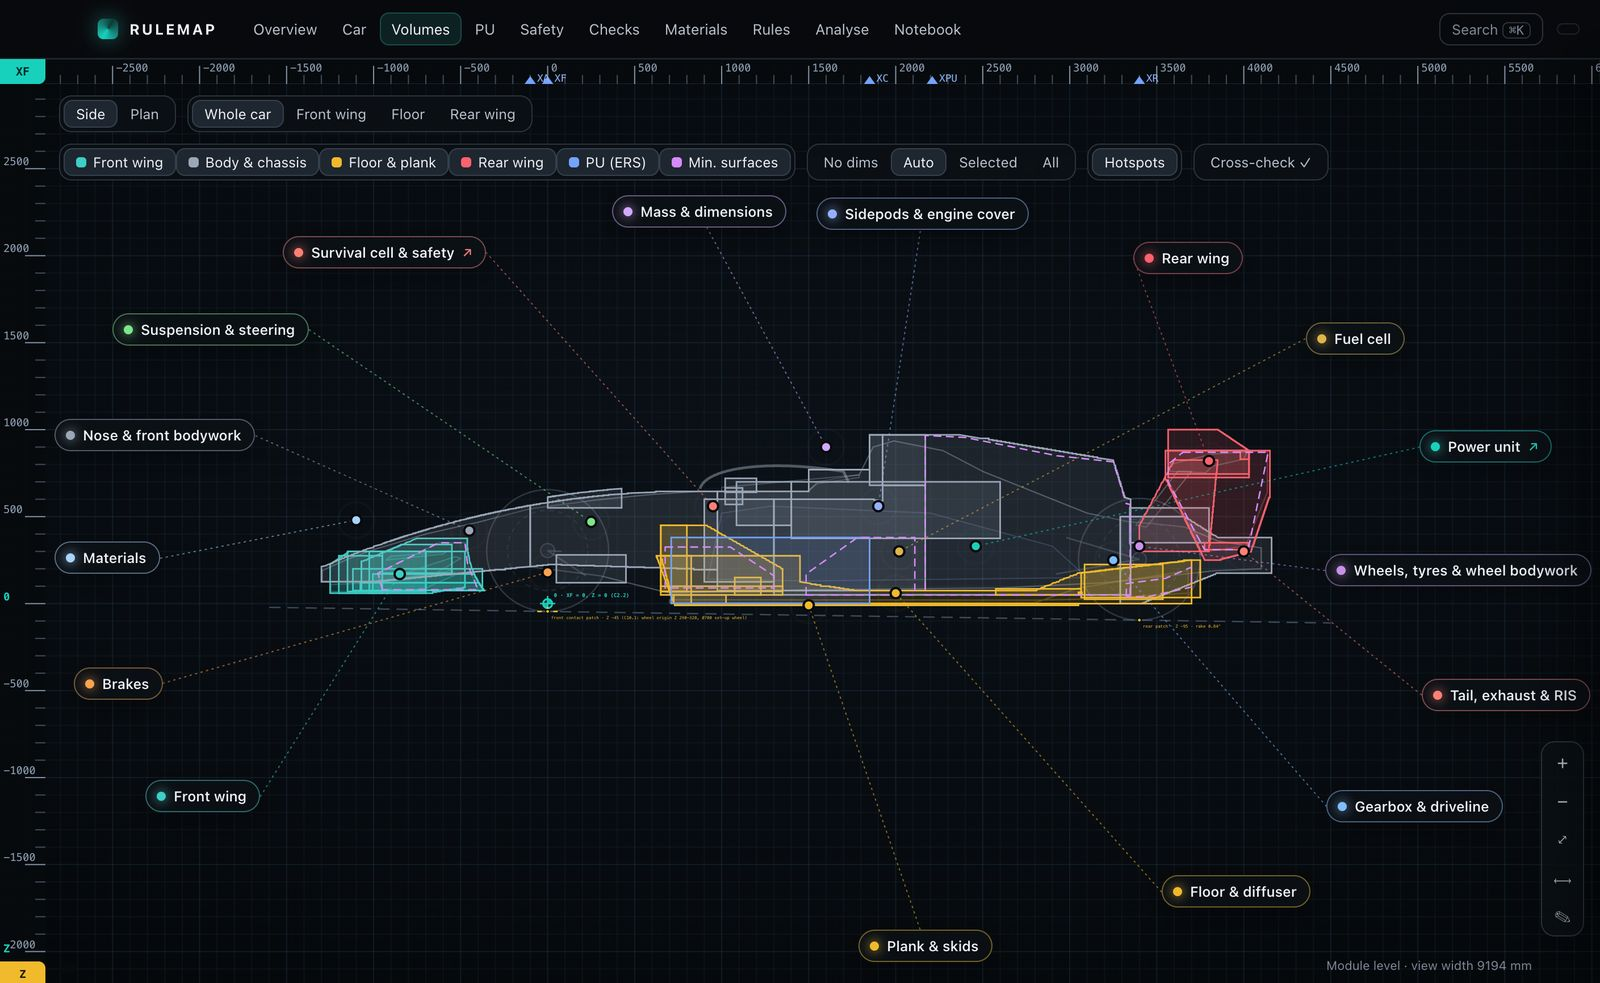
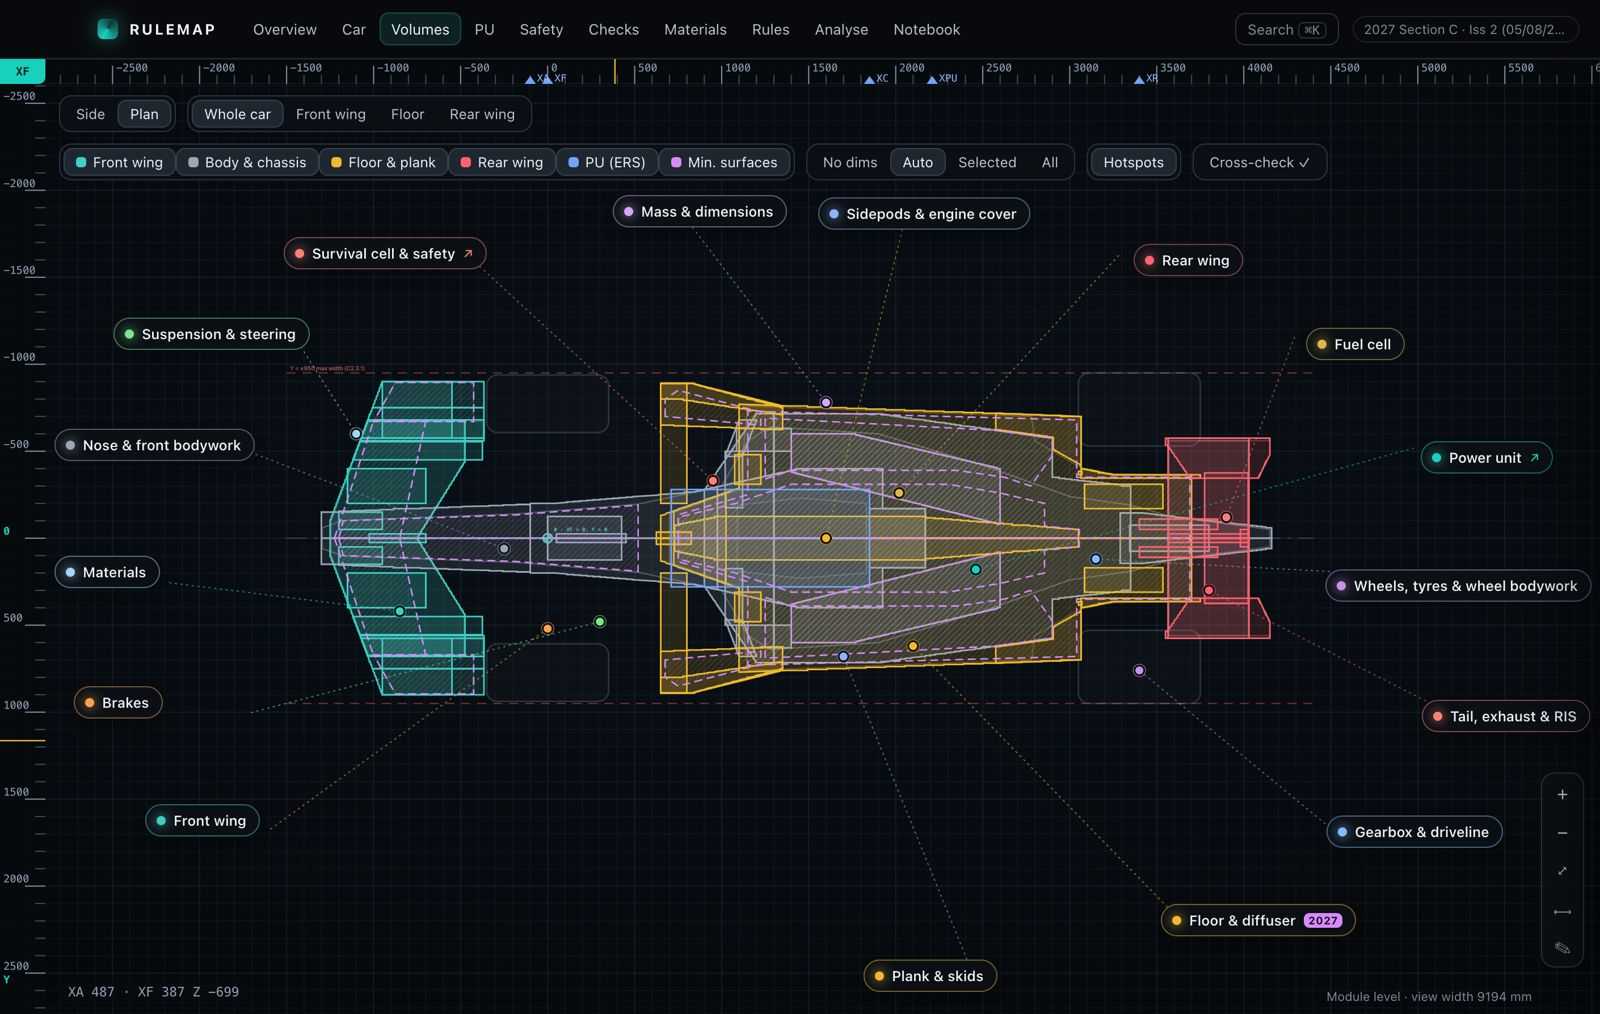
RULEMAP plan view, thesis validation wording, sketch captions

diff --git a/index.html b/index.html
@@ -184,7 +184,7 @@ section.block{padding-block:clamp(64px,9vw,128px);border-top:1px solid var(--lin
 .stage figure{position:absolute;inset:0;margin:0;display:grid;grid-template-rows:1fr auto;padding:20px;opacity:0;transition:opacity .45s;pointer-events:none}
 .stage figure.on{opacity:1}
 .stage figure img{width:100%;height:100%;object-fit:contain;min-height:0}
-.stage .pair{display:grid;grid-template-columns:1fr 1fr;gap:10px;min-height:0}
+.stage .pair{display:grid;grid-template-columns:1fr;grid-template-rows:1fr 1fr;gap:10px;min-height:0}
 .stage .pair img{object-fit:contain}
 
 /* compare */
@@ -812,10 +812,10 @@ td{padding:12px 12px 12px 0;border-bottom:1px solid var(--line);vertical-align:m
         </div>
         <div class="step" data-fig="6">
           <p class="k">Validation</p>
-          <h3>Torsion, and every rule load case</h3>
-          <p>Rotation along the car rises where the cockpit opening begins, because torsion needs closed box sections to carry shear. Rule load cases were checked with the Hill criterion:</p>
+          <h3>Every rule load case, then torsion</h3>
+          <p>To close the loop, every rule load case was applied to the final laminate and passed the Hill failure criterion:</p>
           <ul><li>Main hoop: 30 kN in x, y and z.</li><li>TSAC: 19 kN in x and y, 9.5 kN in z.</li><li>Front impact: 20 kN (250 kg at 8 g). Side impact: 7.5 kN perimeter shear.</li><li>Harness and anti-submarine loads.</li></ul>
-          <p>Where it flagged stress concentrations, at the cockpit edge and the anti-intrusion plate, the thesis recommends fillets for the next iteration.</p>
+          <p>A final torsional stiffness test then gave the result: 4,089 Nm/deg. Rotation along the car rises where the cockpit opening begins, because torsion needs closed box sections to carry shear. Fillets at the cockpit edge and the anti-intrusion plate are noted as refinements for the next iteration.</p>
           <figure class="inline"><img src="img/tfg_rot.jpg" alt="Rotation along the chassis length" loading="lazy"></figure>
         </div>
         <div class="step" data-fig="7">
@@ -871,7 +871,7 @@ td{padding:12px 12px 12px 0;border-bottom:1px solid var(--line);vertical-align:m
     <div class="sec-head">
       <p class="eyebrow">06 · Design &amp; vehicle concept · IFS-07 and IFS-08</p>
       <h2>Every car started on paper.</h2>
-      <p class="lede">My concept sketches for the IFS-07 and IFS-08: packaging, aero surfaces and structural details. The team later turned them into its merchandise, so the concept travelled with every member.</p>
+      <p class="lede">My concept sketches for the IFS-07 and IFS-08: packaging, aero surfaces and structural details. I made them to help team members get past the blocks they hit during the design phase.</p>
     </div>
     <div class="sketch-grid">
       <figure class="s-a"><img src="img/sk_ifs07_plan.jpg" alt="Hand sketch of the IFS-07 in top and side view with annotations" loading="lazy"><figcaption class="cap">IFS-07 concept, top and side views</figcaption></figure>
@@ -879,11 +879,11 @@ td{padding:12px 12px 12px 0;border-bottom:1px solid var(--line);vertical-align:m
       <figure class="s-c"><img src="img/sk_aero.jpg" alt="Sketch of aerodynamic concept with sidepods and wings" loading="lazy"><figcaption class="cap">Aerodynamic packaging</figcaption></figure>
       <figure class="s-d"><img src="img/sk_venturi.jpg" alt="Sketch of a floor with venturi channel" loading="lazy"><figcaption class="cap">Floor and venturi</figcaption></figure>
       <figure class="s-e"><img src="img/sk_fwing.jpg" alt="Sketch of a front wing with sections and endplates" loading="lazy"><figcaption class="cap">Front wing sections</figcaption></figure>
-      <figure class="s-f"><img src="img/sk_bracket.jpg" alt="Sketch of a carbon fibre mounting bracket" loading="lazy"><figcaption class="cap">Carbon mounting points</figcaption></figure>
+      <figure class="s-f"><img src="img/sk_bracket.jpg" alt="Sketch of a powertrain support bracket" loading="lazy"><figcaption class="cap">Powertrain support brackets</figcaption></figure>
       <figure class="s-d"><img src="img/sk_struct.jpg" alt="Sketch of structural members and mounting" loading="lazy"><figcaption class="cap">Structural member layout</figcaption></figure>
       <figure class="s-e"><img src="img/sk_mounts.jpg" alt="Sketch of battery container mounts" loading="lazy"><figcaption class="cap">Mounting brackets and lateral forces</figcaption></figure>
       <figure class="s-f"><img src="img/sk_sidepod.jpg" alt="Sketch of sidepod and suspension detail" loading="lazy"><figcaption class="cap">Aero detail</figcaption></figure>
-      <figure class="s-b"><img src="img/sk_p0.jpg" alt="Sketches of front wing endplates and flaps with an insert pull-out hand calculation" loading="lazy"><figcaption class="cap">Front wing elements and an insert pull-out hand calculation</figcaption></figure>
+      <figure class="s-b"><img src="img/sk_p0.jpg" alt="Sketches of front wing endplates and flaps" loading="lazy"><figcaption class="cap">Front wing elements</figcaption></figure>
       <figure class="s-c"><img src="img/sk_p1.jpg" alt="Rule-of-mixtures equations and triangular composite bracket sketches" loading="lazy"><figcaption class="cap">Rule of mixtures and composite brackets</figcaption></figure>
       <figure class="s-b"><img src="img/sk_p2.jpg" alt="Perspective sketch of a sidepod and rear wheel" loading="lazy"><figcaption class="cap">Sidepod and wheel in perspective</figcaption></figure>
       <figure class="s-c"><img src="img/sk_p4.jpg" alt="Sketches of chassis triangulation and a suspension bracket" loading="lazy"><figcaption class="cap">Chassis triangulation and brackets</figcaption></figure>
@@ -974,12 +974,6 @@ td{padding:12px 12px 12px 0;border-bottom:1px solid var(--line);vertical-align:m
           <figure><img src="img/rm_regs.jpg" alt="RULEMAP: Rules view"><figcaption class="cap">Rules: all articles in a searchable list, filtered to mechanical clauses, with what changed in this issue.</figcaption></figure>
           <figure><img src="img/rm_analyse.jpg" alt="RULEMAP: Analyse view"><figcaption class="cap">Analyse: import a new issue or paste a clause or technical directive. RULEMAP diffs it against the active dataset and lists the hotspots and calculators to re-check.</figcaption></figure>
         </div>
-      <dl class="spec">
-        <div><dt>Built with</dt><dd>JavaScript and Electron for the app; Python with PyMuPDF to extract the regulation text letter by letter, remove struck-out wording and keep the change marks</dd></div>
-        <div><dt>Calculators</dt><dd>Flex tests, the C3.18.5 floor envelope, the 400 ms adjuster, mass distribution, plank wear, fuel energy flow, ERS, PU mass and CoG, impact energy and static safety tests</dd></div>
-        <div><dt>Next</dt><dd>Feeds the aeroelastic study of the floor and front wing, and its effect on lap time</dd></div>
-        <div><dt>Code</dt><dd>Private GitHub repository · link coming soon</dd></div>
-      </dl>
     </div>
 
   </div>
@@ -995,8 +989,8 @@ td{padding:12px 12px 12px 0;border-bottom:1px solid var(--line);vertical-align:m
     <div class="letter">
       <p class="eyebrow">In short</p>
       <blockquote>
-        <p>I optimised a CFRP monocoque in HyperMesh and OptiStruct to 19.78 kg and 4,089 Nm/deg, and checked it against every rule load case. At Managing Composites I size laminates for motorsport and hypercar clients and calibrate material models against physical test data in LS-Dyna.</p>
-        <p>I also know what a design freeze costs when it slips. I have run a team of more than 80 people to one. I would bring that discipline to your structural design team, and learn from the engineers around me.</p>
+        <p>I optimised a CFRP monocoque in HyperMesh and OptiStruct to 19.78 kg and 4,089 Nm/deg, and checked it against every rule load case. At Managing Composites I test structural carbon fibre parts, calibrate material cards, automate simulations, organise project folders and create tools that integrate AI.</p>
+        <p>Formula Student taught me how much work sits behind a design freeze, and how easily it can slip. Helping more than 80 people get there showed me the value of planning, communication and listening. I still have a lot to learn, and I would like to bring that experience to your structural design team while learning from the engineers around me.</p>
       </blockquote>
     </div>
   </div>
